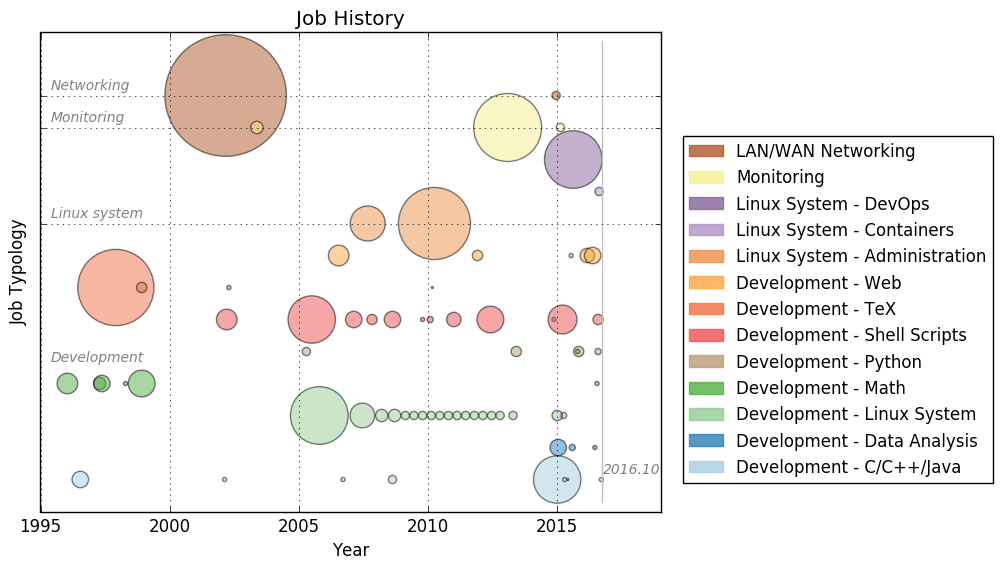
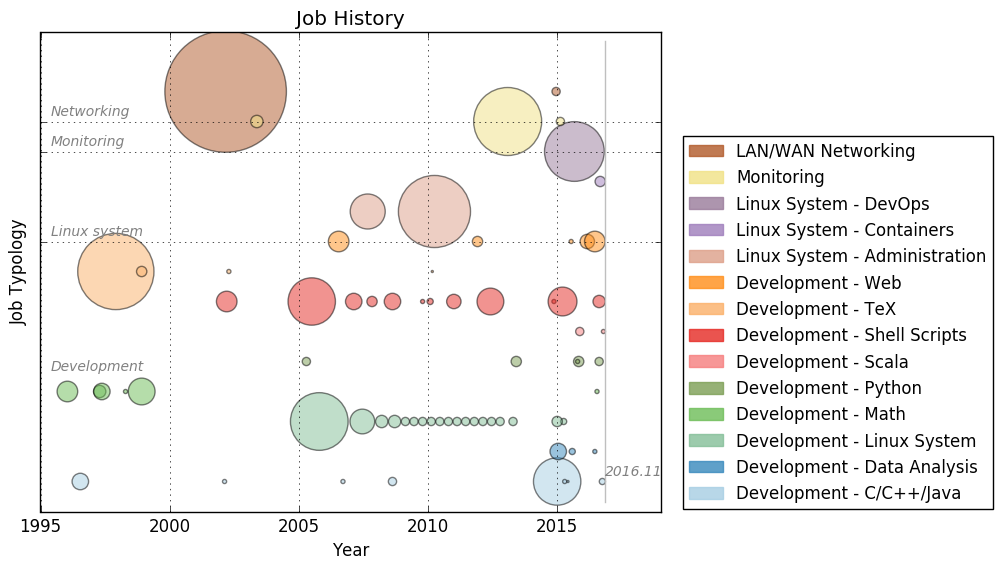
plot-experiences.py: update the dictionary of experiences

diff --git a/scripts/experiences.py b/scripts/experiences.py
@@ -5,6 +5,7 @@ job_list = [
    'Development - Linux System',
    'Development - Math',
    'Development - Python',
+   'Development - Scala',
    'Development - Shell Scripts',
    'Development - TeX',
    'Development - Web',
@@ -88,7 +89,7 @@ jobs = [
    { 'year_start': [2013,  4], 'year_end': [2013,  8], 'type': 'Development - Python' },
    # Nagios PLugins for Linux
    { 'year_start': [2014,  2], 'year_end': [2015, 12], 'type': 'Development - C/C++/Java' },
-   { 'year_start': [2014,  7], 'year_end': [2016, 10], 'type': 'Linux System - DevOps' },
+   { 'year_start': [2014,  7], 'year_end': [2016, 11], 'type': 'Linux System - DevOps' },
    # Sopra-Steria
    { 'year_start': [2014,  9], 'year_end': [2015, 10], 'type': 'Development - Shell Scripts' },
    # Base SUD Networking
@@ -112,16 +113,20 @@ jobs = [
    { 'year_start': [2014, 11], 'year_end': [2015,  3], 'type': 'Development - Linux System' },
    # Full Stack Web Specialization
    { 'year_start': [2015, 12], 'year_end': [2016,  6], 'type': 'Development - Web' },
-   # jQuery, TypeScript, Angular.js, JavaScript, MongoDB
-   { 'year_start': [2016,  2], 'year_end': [2016,  9], 'type': 'Development - Web' },
+   # jQuery, TypeScript, Angular.js, JavaScript, MongoDB, Angular2
+   { 'year_start': [2016,  2], 'year_end': [2016, 11], 'type': 'Development - Web' },
    # MOOC Dynamic Systems and Chaos
    { 'year_start': [2016,  7], 'year_end': [2016,  8], 'type': 'Development - Math' },
    # SopraSteria - Python scripts and AWS boto3
-   { 'year_start': [2016,  7], 'year_end': [2016,  9], 'type': 'Development - Python' },
+   { 'year_start': [2016,  7], 'year_end': [2016, 10], 'type': 'Development - Python' },
    # SopraSteria - build infrastructure using GitLab and Docker)
-   { 'year_start': [2016,  7], 'year_end': [2016, 10], 'type': 'Linux System - Containers' },
+   { 'year_start': [2016,  7], 'year_end': [2016, 11], 'type': 'Linux System - Containers' },
    # SopraSteria - postinstall framework + GitLab script refont
-   { 'year_start': [2016,  6], 'year_end': [2016, 10], 'type': 'Development - Shell Scripts' },
-   # Nagios PLugins for Linux v19 + test framework
-   { 'year_start': [2016,  9], 'year_end': [2016, 10], 'type': 'Development - C/C++/Java' },
+   { 'year_start': [2016,  6], 'year_end': [2016, 11], 'type': 'Development - Shell Scripts' },
+   # Nagios Plugins for Linux v19 + test framework
+   { 'year_start': [2016,  9], 'year_end': [2016, 11], 'type': 'Development - C/C++/Java' },
+   # MOOCS Paradigms of Computer Programming  (functional programming)
+   { 'year_start': [2015,  10], 'year_end': [2016, 1], 'type': 'Development - Scala' },
+   # MOOCs Functional Programming Principles in Scala - Coursera
+   { 'year_start': [2016,  10], 'year_end': [2016, 11], 'type': 'Development - Scala' },
 ]
